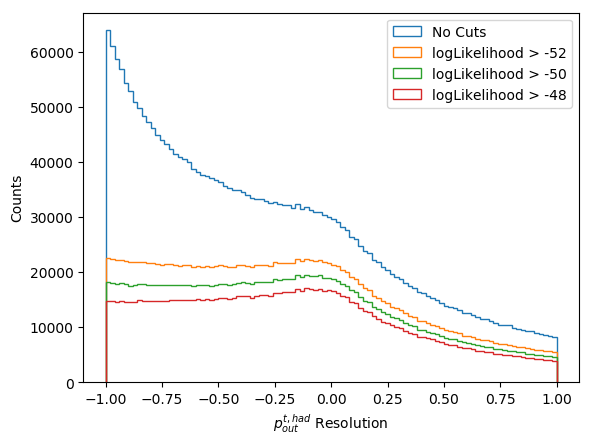
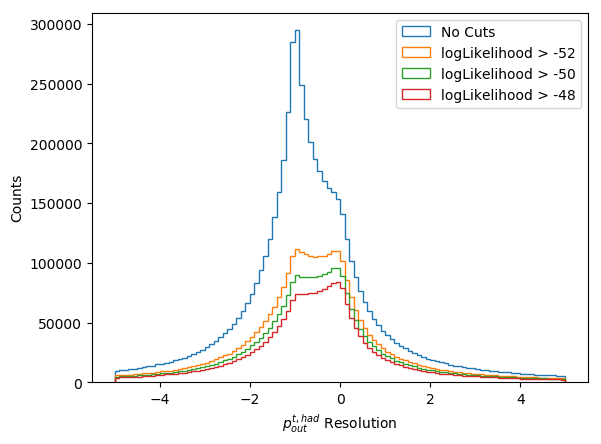
Fixed pout resolution axis. Fixed resolution vs variable plots and added more variations.

diff --git a/plotter.py b/plotter.py
@@ -4,7 +4,7 @@ import pandas as pd
 import awkward as ak
 import numpy as np
 import matplotlib
-#matplotlib.use('Agg')  # need for not displaying plots when running batch jobs
+matplotlib.use('Agg')  # need for not displaying plots when running batch jobs
 from matplotlib import pyplot as plt
 from matplotlib import colors
 from scipy.optimize import curve_fit
@@ -23,7 +23,6 @@ labels = {'thad' : ['$p_T^{t,had}$','$\eta^{t,had}$','$y^{t,had}$','$\phi^{t,had
 units = {'thad' : [' [GeV]','','','',' [GeV]',' [GeV]',' [GeV]'], 
 	 'tlep' : [' [GeV]','','','',' [GeV]',' [GeV]',' [GeV]'], 
 	 'ttbar': [' [GeV]','','','',' [GeV]',' [GeV]','',' [GeV]','']} 
-
 
 # Defines bins/ticks for each variable
 
@@ -216,14 +215,7 @@ def Plot_2D(cutB,i,name,particle):
         ran = tk[::n-1]
 
         # Create 2D array of truth vs reco variable (which can be plotted also)
-        #plt.figure('2D')
-	#fig,ax = plt.subplots()
-        #ax.set_xticks(ticks)
-        #ax.set_yticks(ticks)
         H, xedges, yedges, im = plt.hist2d(np.clip(cutB['reco '+particle+' '+var[particle][i]],tk[0],tk[-1]),np.clip(cutB['truth '+particle+' '+var[particle][i]],tk[0],tk[-1]),bins=tk,range=[ran,ran])
-        #plt.pcolormesh(xedges,yedges,cmap=plt.cm.Blues)
-        #plt.xlabel('Reco '+labels[i]+units[i])
-        #plt.ylabel('Truth '+labels[i]+units[i])
 
 	# Normalize the rows out of 100 and round to integers
 	norm = (np.rint((H/np.sum(H.T,axis=1))*100)).T.astype(int)
@@ -259,12 +251,16 @@ def Plot_Res(df,cutA,cutB,cutC,name,particle):
 	# Create each resolution plot
 	for i in range(len(var[particle])):
         	
+		# Define the absolute range for the resolution plot
+		v = var[particle][i]
+		ran = 5 if v=='pout' else 1		
+
 		# Create 1D resolution plot
 		plt.figure(name+' '+particle+' '+var[particle][i]+' Resolution')
-        	plt.hist(df['resolution '+particle+' '+var[particle][i]],bins=100,range=(-1,1),histtype='step')
-        	plt.hist(cutA['resolution '+particle+' '+var[particle][i]],bins=100,range=(-1,1),histtype='step')
-        	plt.hist(cutB['resolution '+particle+' '+var[particle][i]],bins=100,range=(-1,1),histtype='step')
-        	plt.hist(cutC['resolution '+particle+' '+var[particle][i]],bins=100,range=(-1,1),histtype='step')
+        	plt.hist(df['resolution '+particle+' '+var[particle][i]],bins=100,range=(-ran,ran),histtype='step')
+        	plt.hist(cutA['resolution '+particle+' '+var[particle][i]],bins=100,range=(-ran,ran),histtype='step')
+        	plt.hist(cutB['resolution '+particle+' '+var[particle][i]],bins=100,range=(-ran,ran),histtype='step')
+        	plt.hist(cutC['resolution '+particle+' '+var[particle][i]],bins=100,range=(-ran,ran),histtype='step')
         	plt.xlabel(labels[particle][i]+' Resolution')
         	plt.ylabel('Counts')
         	plt.legend(['No Cuts','logLikelihood > -52','logLikelihood > -50','logLikelihood > -48'])
@@ -276,8 +272,8 @@ def Plot_Res(df,cutA,cutB,cutC,name,particle):
 
 
 # Creates and saves the resolution vs variable plots
-# Input: cutB of df, data type, particle, variable, index of variable, and [first bin edge, last bin edge, width of bins]
-def Plot_Res_vs_Var(cutB,name,particle,variable,i,bins):
+# Input: cutB of df, data type, particle, resolution (y) variable, (x) variable, index of y variable, index of x variable, and [first bin edge, last bin edge, width of bins]
+def Plot_Res_vs_Var(cutB,name,particle,y_var,x_var,iy,ix,bins):
 
 	data = []   # Array to hold var vs fwhm values
 	for bottom_edge in np.arange(bins[0],bins[1],bins[2]):	
@@ -287,73 +283,29 @@ def Plot_Res_vs_Var(cutB,name,particle,variable,i,bins):
 		middle = bottom_edge+(bins[2]/2)
 
 		# Look at resolution at a particular value of var
-		cut_temp = cutB[cutB['truth '+particle+' '+variable]>=bottom_edge]      # Should I fold in edges of first and last?
-		cut_temp = cut_temp[cut_temp['truth '+particle+' '+variable]<top_edge]
+		cut_temp = cutB[cutB['truth '+particle+' '+x_var]>=bottom_edge]      # Should I fold in edges of first and last?
+		cut_temp = cut_temp[cut_temp['truth '+particle+' '+x_var]<top_edge]
 
-		# Make the resolution plot at the particular var
-		#plt.figure(name+' '+particle+' '+variable+' Resolution at '+str(middle))
-		yhist, xhist, im = plt.hist(cut_temp['resolution '+particle+' '+variable],bins=200,range=(-1,1),histtype='step')
-
-		# Need to convert to normal array so we can index	
-		yhist = yhist.tolist()
-		xhist = xhist.tolist()
-
-		# Find the array index of the maximum of the plot
-		max_val = np.max(yhist)
-		max_index = yhist.index(max_val)
-
-		# Divide the array into the left and right halves (makes finding mid values easier)
-		left_half = yhist[:max_index]
-		right_half = yhist[max_index:]
-		
-		# Determine the bin content (and its index) that is closest to half the max on each side
-		half_max = max_val/2
-		half_max_l = min(left_half,key=lambda x:abs(x-half_max))
-		half_max_r = min(right_half,key=lambda x:abs(x-half_max))
-		left_index = left_half.index(half_max_l)
-		right_index = right_half.index(half_max_r)+max_index
-
-		# Get the x value at the half max locations and calculate fwhm
-		x_l = xhist[left_index]
-		x_r = xhist[right_index]
-		fwhm = x_r - x_l
-		
-		# Second method
-                sigma2 = cut_temp['resolution '+particle+' '+variable].std(ddof=0)
-                fwhm2 = 2*np.sqrt(2*np.log(2))*sigma2
-                mean2 = cut_temp['resolution '+particle+' '+variable].mean()
-
-
-		
-		# Third method
-		mid_bins = xhist[:-1] + np.diff(xhist)/2
-		mean3 = np.average(mid_bins, weights=yhist)
-		var3 = np.average((mid_bins - mean3)**2,weights=yhist)
-		sigma3 = np.sqrt(var3)
-		fwhm3 = 2*np.sqrt(2*np.log(2))*sigma3
-
-
+		# Get standard deviation with dataframe methods
+                sigma = cut_temp['resolution '+particle+' '+y_var].std()
+                mean = cut_temp['resolution '+particle+' '+y_var].mean()
 
 		# Append the data from this particular var
-		data.append([middle,fwhm,bins[2]/2,sigma2,fwhm2,mean2,sigma3,fwhm3,mean3])
-		
+		#data.append([middle,sigma1,mean1,sigma2,mean2,bins[2]/2])
+		data.append([middle,sigma,mean,bins[2]/2])		
+
 	# Convert the array to a pandas data frame for easy reading	
-	df_res = pd.DataFrame(data,columns=(variable,'res fwhm','p/m','sigma2','fwhm2','mean2','sigma3','fwhm3','mean3'))
-	print df_res
+	df_res = pd.DataFrame(data,columns=(x_var,'sigma','mean','p/m'))
 
 	# Create a plot
-	plt.figure(variable+' Resolution')
-	plt.scatter(df_res[variable], df_res['res fwhm'])
-	plt.scatter(df_res[variable], df_res['fwhm2'])
-	plt.scatter(df_res[variable], df_res['fwhm3'])
-	#plt.ylim(0,0.6)
-	plt.legend(['Method 1','Method 2','Method 3'])
-	plt.xlabel('Truth '+labels[particle][i]+units[particle][i])
-	plt.ylabel(labels[particle][i]+' Resolution Width')
+	plt.figure(y_var+' Resolution vs '+x_var)
+	plt.scatter(df_res[x_var], df_res['sigma'])
+	plt.xlabel('Truth '+labels[particle][ix]+units[particle][ix])
+	plt.ylabel(labels[particle][iy]+' Resolution Width')
 
 	# Save and close figure
-        plt.savefig('plots/'+name+'/'+particle+'/Resolution_vs_'+variable+'_'+name+'_'+particle,bbox_inches='tight')
-        print 'Saved Figure: Resolution_vs_'+variable+'_'+name+'_'+particle
+        plt.savefig('plots/'+name+'/'+particle+'/'+y_var+'_Resolution_vs_'+x_var+'_'+name+'_'+particle,bbox_inches='tight')
+        print 'Saved Figure: '+y_var+'_Resolution_vs_'+x_var+'_'+name+'_'+particle
        	plt.close()
 
 
@@ -384,8 +336,10 @@ def Run_Plotting(name):
 	# Create resolution plots
 	for p in par:
 		Plot_Res(df,cutA,cutB,cutC,name,p)
-		Plot_Res_vs_Var(cutB,name,p,'eta',1,[-2.4,2.4,0.1])
-		Plot_Res_vs_Var(cutB,name,p,'pt',0,[90,510,20])	
+		Plot_Res_vs_Var(cutB,name,p,'eta','eta',1,1,[-2.4,2.4,0.1])
+		Plot_Res_vs_Var(cutB,name,p,'pt','pt',0,0,[90,510,20])	
+		Plot_Res_vs_Var(cutB,name,p,'pt','eta',0,1,[-2.4,2.4,0.1])
+		Plot_Res_vs_Var(cutB,name,p,'eta','pt',1,0,[90,510,20])
 
 
 
